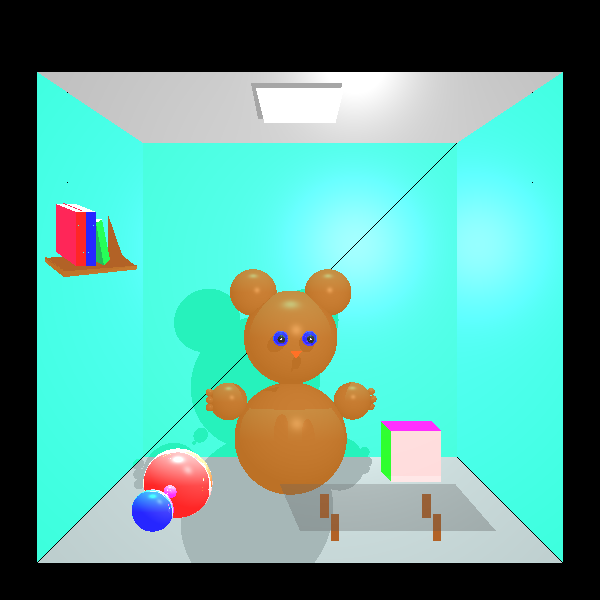
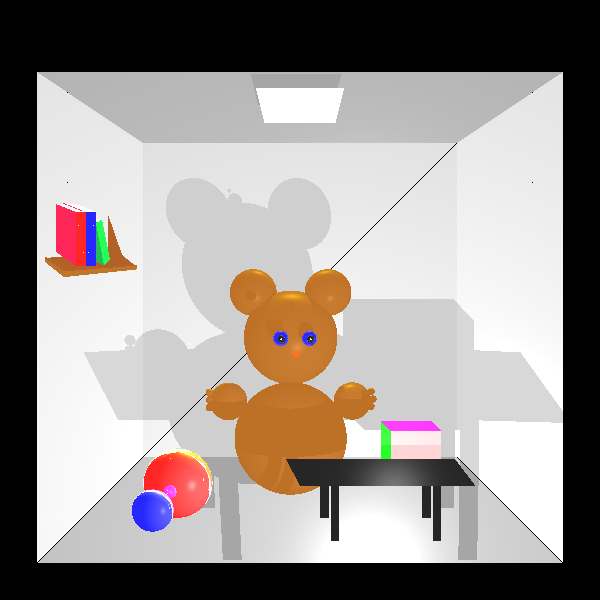
debut_8

diff --git a/unitTest/images/ourImages.java b/unitTest/images/ourImages.java
@@ -1,6 +1,7 @@
 package images;
 
 import geometries.*;
+import lighting.PointLight;
 import org.junit.jupiter.api.Test;
 import primitives.*;
 import lighting.AmbientLight;
@@ -154,6 +155,7 @@ public class ourImages {
     @Test
     public void project1() {
 
+        Color sideColor=new Color(0, 220, 160);
         scene.setAmbientLight(new AmbientLight(new Color(java.awt.Color.WHITE), new Double3(.15)));
         Camera camera = new Camera.BuilderCamera(new Point(0, 0, 1000), new Vector(0, 0, -1), new Vector(0, 1, 0)) //
                 .setVPSize(300, 300).setVPDistance(1000) //
@@ -167,13 +169,13 @@ public class ourImages {
                         new Point(90, -90, -150),
                         new Point(90, 90, -150)
                 ).setMaterial(new Material().setKd(0.5).setKs(0.8).setShininess(80))
-                        .setEmission(new Color(0, 204, 150)),
+                        .setEmission(new Color(169, 169, 169)),
                 new Triangle(
                         new Point(-90, -90, -150),
                         new Point(-90, 90, -150),
                         new Point(90, 90, -150)
                 ).setMaterial(new Material().setKd(0.5).setKs(0.8).setShininess(80))
-                        .setEmission(new Color(0, 204, 150)),
+                        .setEmission(new Color(169, 169, 169)),
 
                 // side- right
                 new Triangle(
@@ -181,13 +183,13 @@ public class ourImages {
                         new Point(90, 90, -150),
                         new Point(150, 130, -140)
                 ).setMaterial(new Material().setKd(0.5).setKs(0.8).setShininess(80))
-                        .setEmission(new Color(0, 220, 160)),
+                        .setEmission(new Color(178,178,178)),
                 new Triangle(
                         new Point(150, 130, -140),
                         new Point(150, -150, -140),
                         new Point(90, -90, -150)
                 ).setMaterial(new Material().setKd(0.5).setKs(0.8).setShininess(80))
-                        .setEmission(new Color(0, 220, 160)),
+                        .setEmission(new Color(178, 178, 178)),
 
                 // side- left
                 new Triangle(
@@ -195,13 +197,13 @@ public class ourImages {
                         new Point(-90, 90, -150),
                         new Point(-150, 130, -140)
                 ).setMaterial(new Material().setKd(0.5).setKs(0.8).setShininess(80))
-                        .setEmission(new Color(0, 220, 160)),
+                        .setEmission(new Color(178,178,178)),
                 new Triangle(
                         new Point(-150, 130, -140),
                         new Point(-150, -150, -140),
                         new Point(-90, -90, -150)
                 ).setMaterial(new Material().setKd(0.5).setKs(0.8).setShininess(80))
-                        .setEmission(new Color(0, 220, 160)),
+                        .setEmission(new Color(178,178,178)),
 
                 // the floor
                 new Triangle(
@@ -233,6 +235,7 @@ public class ourImages {
                         .setEmission(new Color(gray)),
 
 
+                //light
                 new Triangle(
                         new Point(-25, 120, -130),
                         new Point(25, 120, -130),
@@ -484,59 +487,62 @@ public class ourImages {
                 new Triangle(
                         new Point(65, -118, 20),
                         new Point(69, -118, 20),
-                        new Point(69, -105, 20)
-                ).setEmission(tableColor),
+                        new Point(69, -80, 20)
+                ).setEmission(new Color(black)),
                 new Triangle(
                         new Point(65, -118, 20),
-                        new Point(65, -105, 20),
-                        new Point(69, -105, 20)
-                ).setEmission(tableColor),
+                        new Point(65, -80, 20),
+                        new Point(69, -80, 20)
+                ).setEmission(new Color(black)),
                 //left foot front
                 new Triangle(
                         new Point(15, -118, 20),
                         new Point(19, -118, 20),
-                        new Point(19, -105, 20)
-                ).setEmission(tableColor),
+                        new Point(19, -80, 20)
+                ).setEmission(new Color(black)),
                 new Triangle(
                         new Point(15, -118, 20),
-                        new Point(15, -105, 20),
-                        new Point(19, -105, 20)
-                ).setEmission(tableColor),
+                        new Point(15, -80, 20),
+                        new Point(19, -80, 20)
+                ).setEmission(new Color(black)),
                 //right foot in the back
                 new Triangle(
                         new Point(60, -107, 20),
                         new Point(64, -107, 20),
-                        new Point(64, -95, 20)
-                ).setEmission(tableColor),
+                        new Point(64, -80, 20)
+                ).setEmission(new Color(black)),
                 new Triangle(
                         new Point(60, -107, 20),
-                        new Point(60, -95, 20),
-                        new Point(64, -95, 20)
-                ).setEmission(tableColor),
+                        new Point(60, -80, 20),
+                        new Point(64, -80, 20)
+                ).setEmission(new Color(black)),
+
                 //left foot in the back
                 new Triangle(
                         new Point(10, -107, 20),
                         new Point(14, -107, 20),
-                        new Point(14, -95, 20)
-                ).setEmission(tableColor),
+                        new Point(14, -80, 20)
+                ).setEmission(new Color(black)),
                 new Triangle(
                         new Point(10, -107, 20),
-                        new Point(10, -95, 20),
-                        new Point(14, -95, 20)
-                ).setEmission(tableColor),
+                        new Point(10, -80, 20),
+                        new Point(14, -80, 20)
+                ).setEmission(new Color(black)),
+
                 //the plate
                 new Triangle(
-                        new Point(0, -112, 30),
-                        new Point(75, -89, 30),
-                        new Point(-10, -89, 30)
+                        new Point(0, -90, 30),
+                        new Point(75, -77, 30),
+                        new Point(-7, -77, 30)
                 ).setEmission(new Color(black))
-                        .setMaterial(new Material().setkT(0.7).setKr(0.8).setKr(0.2).setKd(0.3).setShininess(30)),
+                        .setMaterial(new Material().setKd(0.001).setKs(0.4).setShininess(50)),
                 new Triangle(
-                        new Point(0, -112, 30),
-                        new Point(75, -89, 30),
-                        new Point(95, -112, 30)
+                        new Point(0, -90, 30),
+                        new Point(75, -77, 30),
+                        new Point(85, -90, 30)
                 ).setEmission(new Color(black))
-                        .setMaterial(new Material().setkT(0.7).setKr(0.8).setKr(0.2).setKd(0.3).setShininess(30)),
+                        .setMaterial(new Material().setKd(0.001).setKs(0.4).setShininess(50)),
+
                 //balls
                 new Sphere(new Point(-60, -90, 17), 17d) //
                         .setEmission(new Color(red)) //
@@ -548,10 +554,10 @@ public class ourImages {
 
         );
         scene.lights.add( //
-                new SpotLight(new Color(white), new Point(40, 40, 115), new Vector(-1, -1, -4)) //
+                new SpotLight(new Color(white), new Point(50, -100, 115), new Vector(-1, -1, -4)) //
                         .setKl(4E-4).setKq(2E-5));
 
-        scene.lights.add(new DirectionalLight(new Color(CYAN), new Vector(-0.0003, -1.0003, 0)));
+        scene.lights.add(new PointLight(new Color(yellow),new Point(0,110,-130)));
 
         camera.setImageWriter(new ImageWriter("project1", 600, 600)) //
                 .renderImage().writeToImage();
